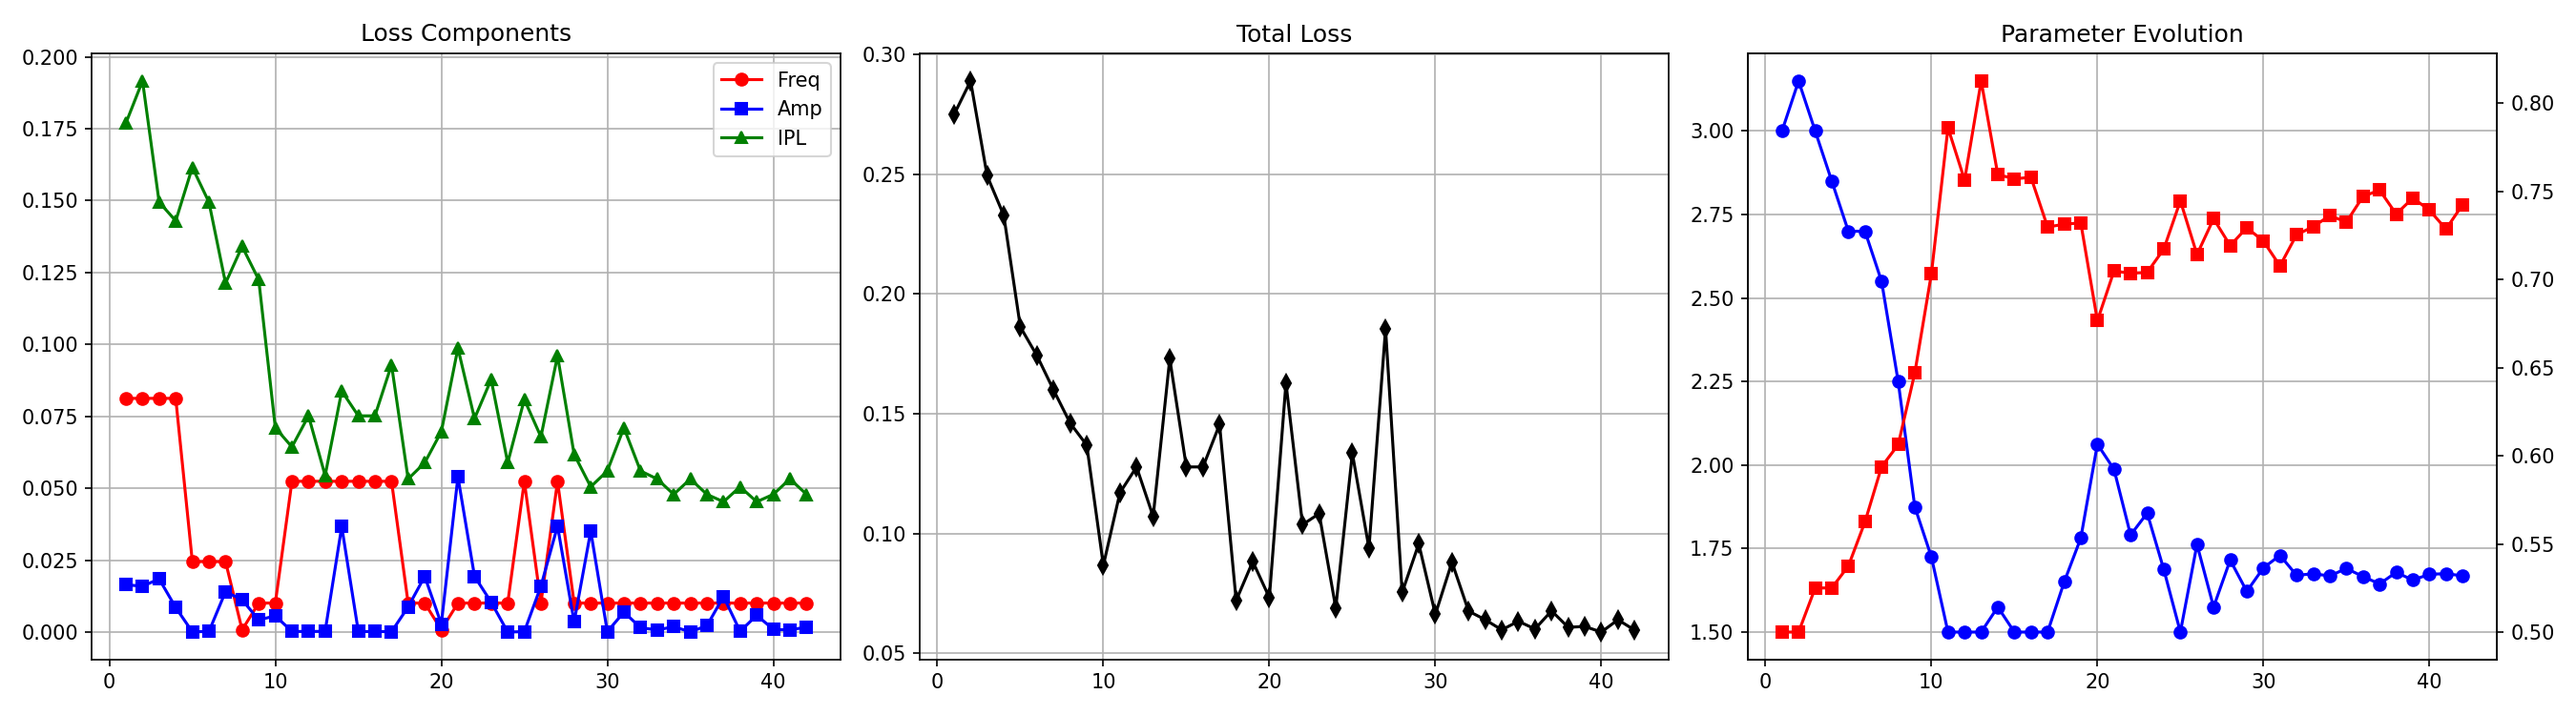
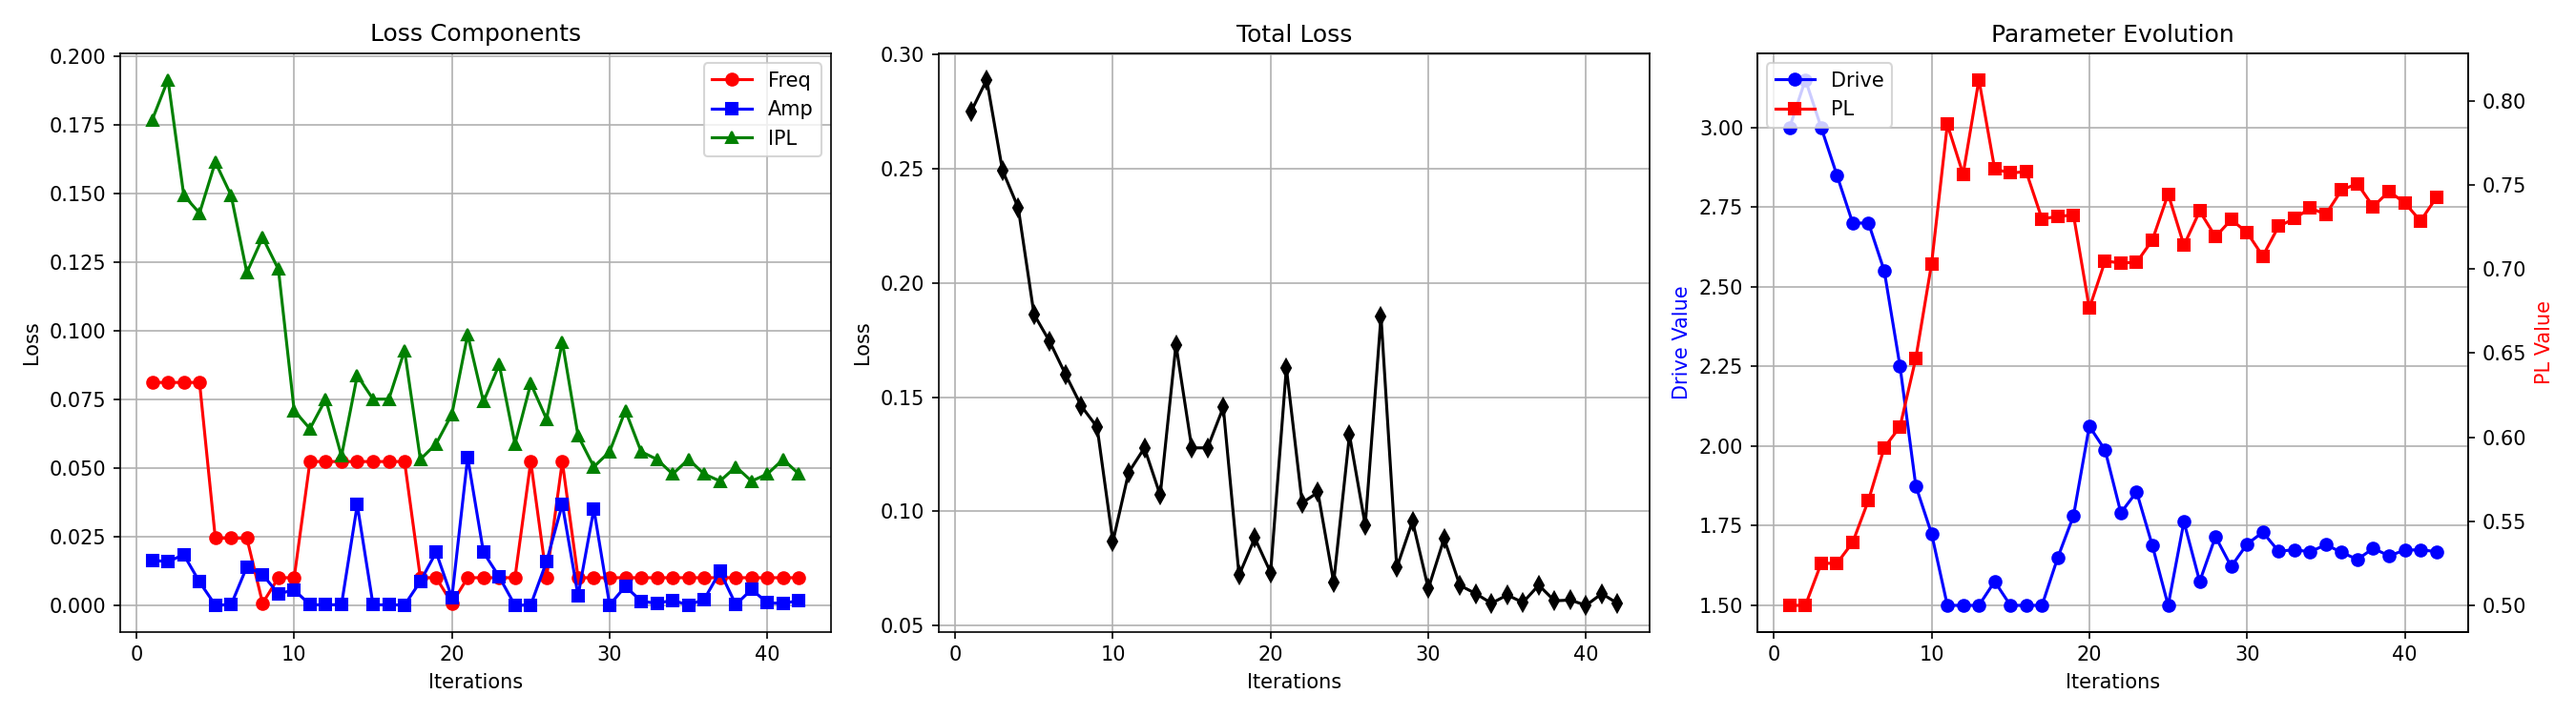
bonuss

diff --git a/Project1/Python/bonus.py b/Project1/Python/bonus.py
@@ -8,7 +8,7 @@ import matplotlib.pyplot as plt
 from scipy.optimize import minimize
 
 from simulate import runsim
-from exercise2_3 import get_animal_data
+from exercise2_3 import get_animal_data, exercise2_3
 from cmc_controllers.metrics import (
     compute_mechanical_frequency_amplitude_fft,
     compute_neural_phase_lags,
@@ -167,7 +167,7 @@ def main():
         os.remove(CSV_LOG_PATH)
 
     targets = get_targets()
-
+    print(f"Objectives are to match animal metrics: frequency={targets['freq']:.3f}, amplitude={targets['amp']:.3f}, and IPL={targets['ipl']:.3f} \n\n\n\n")
     res = minimize(
         objective_function,
         x0=[3.0, 0.5],
@@ -185,6 +185,7 @@ def main():
 
     print("\n==============================")
     print("OPTIMIZATION FINISHED")
+    print(f"Objectives are to match animal metrics: frequency={targets['freq']:.3f}, amplitude={targets['amp']:.3f}, and IPL={targets['ipl']:.3f}")
     print("==============================")
     print(f"Best Drive : {best_drive:.4f}")
     print(f"Best PL    : {best_pl:.4f}")
@@ -203,24 +204,34 @@ def main():
     axes[0].plot(evals, det[:, 1], 'b-s', label='Amp')
     axes[0].plot(evals, det[:, 2], 'g-^', label='IPL')
     axes[0].set_title("Loss Components")
+    axes[0].set_ylabel("Loss")
+    axes[0].set_xlabel("Iterations")
     axes[0].legend()
     axes[0].grid()
 
     axes[1].plot(evals, loss_history, 'k-d')
     axes[1].set_title("Total Loss")
+    axes[1].set_ylabel("Loss")
+    axes[1].set_xlabel("Iterations")
     axes[1].grid()
 
     ax2b = axes[2].twinx()
-    axes[2].plot(evals, [p[0] for p in params_history], 'b-o', label='Drive')
-    ax2b.plot(evals, [p[1] for p in params_history], 'r-s', label='PL')
+    line1, = axes[2].plot(evals, [p[0] for p in params_history], 'b-o', label='Drive')
+    line2, = ax2b.plot(evals, [p[1] for p in params_history], 'r-s', label='PL')
 
     axes[2].set_title("Parameter Evolution")
     axes[2].grid()
+    axes[2].set_ylabel("Drive Value", color='b') 
+    ax2b.set_ylabel("PL Value", color='r')
+    axes[2].set_xlabel("Iterations")
 
+    lines = [line1, line2]
+    labels = [l.get_label() for l in lines]
+    axes[2].legend(lines, labels, loc='upper left')
     plt.tight_layout()
     plt.savefig(os.path.join(BASE_PATH, "optimization_diagnostics.png"), dpi=150)
     plt.show()
-
+    # exercise2_3(sim_result = 'logs/exercise2_3_bonus_gd/simulation.hdf5')
 
 if __name__ == "__main__":
     main()

diff --git a/Project1/Python/exercise2_3.py b/Project1/Python/exercise2_3.py
@@ -191,7 +191,7 @@ def _extract_one_cycle(times, joint_pos, f_sim):
 # Main exercise
 # ──────────────────────────────────────────────────────────────────────────────
 
-def exercise2_3():
+def exercise2_3(sim_result): # added this parameter to ba able to use this function in bonus.py without modification
     """
     Analyze animal data, compare with CPG baseline, and (bonus) find best
     imitation from the grid1_drive_pl simulations.
@@ -201,7 +201,6 @@ def exercise2_3():
     f_animal, a_animal, ipl_animal, ipl_animal_mean, animal_times, animal_joints = \
         get_animal_data(ANIMAL_DATA_PATH)
 
-    sim_result = 'logs/exercise2_1/simulation.hdf5'
     with h5py.File(sim_result, "r") as f:
         sim_times   = f['times'][:]
         joints_data = f['FARMSLISTanimats']['0']['sensors']['joints']['array'][:]
@@ -217,7 +216,6 @@ def exercise2_3():
         f_animal, a_animal, ipl_animal, ipl_animal_mean,
         f_robot, a_robot, ipl_robot, ipl_robot_mean, BASE_PATH
     )
-    # TO DO  Optimization
 
 if __name__ == '__main__':
-    exercise2_3()
+    exercise2_3(sim_result = 'logs/exercise2_1/simulation.hdf5')
